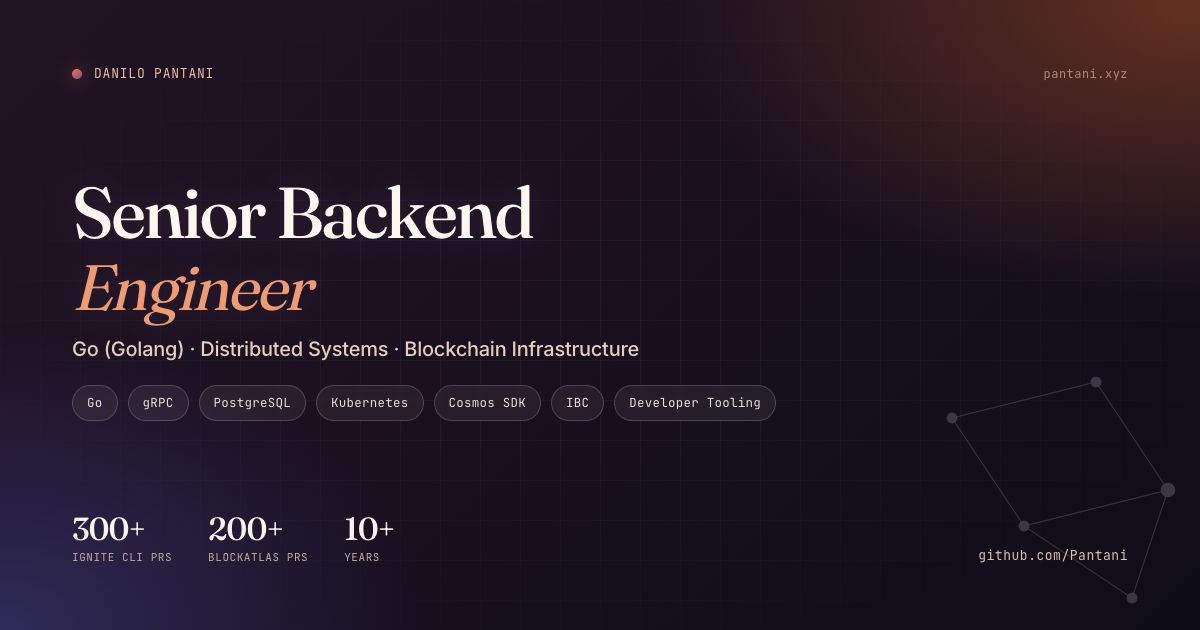
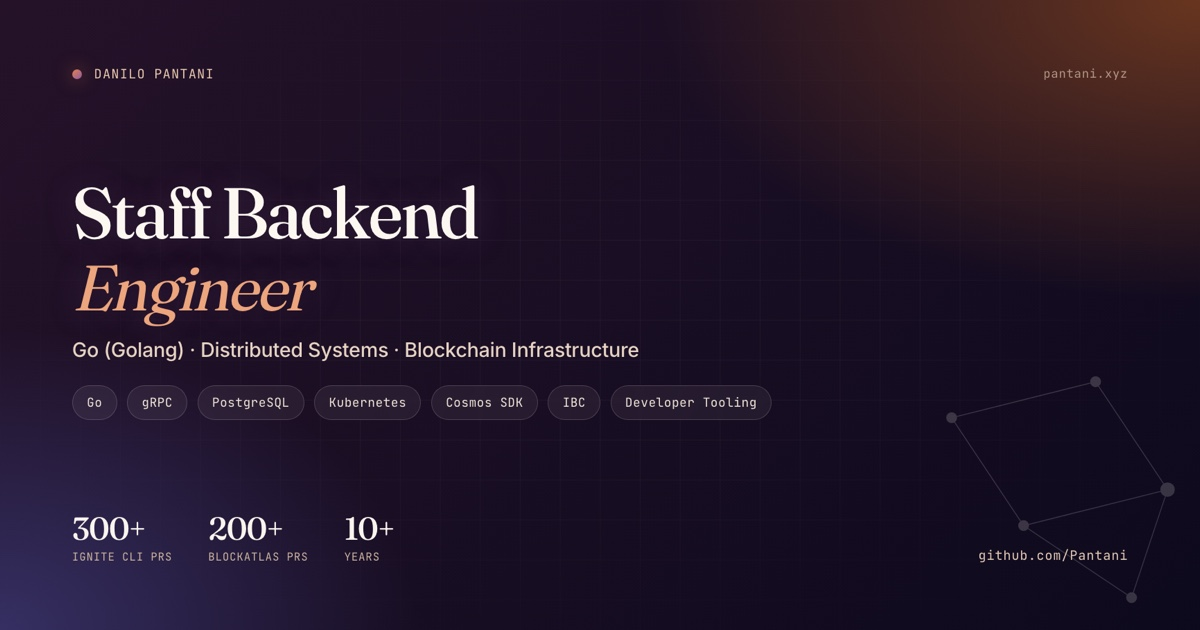
Replace remaining Senior target-role references with Staff
Swap the case-study social card (still showing Senior) for the Staff card,
cache-bust its URL, drop 'or Senior' from the target roles in EN/PT site
copy and README, and regenerate the CV PDFs. The Ignite Senior-to-Staff
history stays as is.

diff --git a/index.html b/index.html
@@ -76,7 +76,7 @@
     ],
     "seeks": {
       "@type": "Demand",
-      "name": "Remote Staff or Senior Backend Engineer, Go/Golang Engineer, Blockchain Engineer or Protocol Engineer roles using Go, distributed systems and blockchain infrastructure. Based in Brazil, UTC-3. Open to relocation."
+      "name": "Remote Staff Backend Engineer, Go/Golang Engineer, Blockchain Engineer or Protocol Engineer roles using Go, distributed systems and blockchain infrastructure. Based in Brazil, UTC-3. Open to relocation."
     },
     "performerIn": [
       {
@@ -2767,7 +2767,7 @@
   <main id="main" class="resume" aria-label="Danilo Pantani CV">
     <header class="hero">
       <div>
-        <p class="eyebrow"><span class="pulse" aria-hidden="true"></span><span data-i18n="hero.eyebrow">Open to remote Staff and Senior Backend Engineer roles · São Paulo · UTC−3</span></p>
+        <p class="eyebrow"><span class="pulse" aria-hidden="true"></span><span data-i18n="hero.eyebrow">Open to remote Staff Backend Engineer roles · São Paulo · UTC−3</span></p>
         <p class="person-name">Danilo <span class="name-accent">Pantani</span></p>
         <h1 data-i18n-html="hero.title"><span class="name-accent">Staff Backend Engineer</span></h1>
         <p class="title technical-line" data-i18n="hero.technical">Go (Golang) · Distributed Systems · Blockchain Infrastructure</p>
@@ -3209,7 +3209,7 @@
               <h2 id="print-seeking-title" data-i18n="seeking.title">What I'm looking for</h2>
             </div>
             <ul class="impact-list">
-              <li data-i18n-html="seeking.b1">Remote <strong>Staff or Senior Backend Engineer</strong>, <strong>Go/Golang Engineer</strong>, <strong>Blockchain Engineer</strong> or <strong>Protocol Engineer</strong> roles focused on Go, distributed systems and blockchain infrastructure.</li>
+              <li data-i18n-html="seeking.b1">Remote <strong>Staff Backend Engineer</strong>, <strong>Go/Golang Engineer</strong>, <strong>Blockchain Engineer</strong> or <strong>Protocol Engineer</strong> roles focused on Go, distributed systems and blockchain infrastructure.</li>
               <li data-i18n-html="seeking.b2">Responsibility for services from <strong>architecture and APIs to deployment and production support</strong>.</li>
               <li data-i18n-html="seeking.b3">Based in São Paulo, UTC−3. Brazilian and Italian (EU) citizen. Available to start immediately and open to relocation.</li>
             </ul>
@@ -3444,7 +3444,7 @@
         "toolbar.copied": "Copied ✓",
         "toolbar.share": "Share preview",
         "toolbar.shareTitle": "Toggle social share preview",
-        "hero.eyebrow": "Open to remote Staff and Senior Backend Engineer roles · São Paulo · UTC−3",
+        "hero.eyebrow": "Open to remote Staff Backend Engineer roles · São Paulo · UTC−3",
         "hero.title": "<span class=\"name-accent\">Staff Backend Engineer</span>",
         "hero.technical": "Go (Golang) · Distributed Systems · Blockchain Infrastructure",
         "hero.pitch": "Staff backend engineer with 10+ years in software engineering, focused on Go services, distributed systems and blockchain infrastructure.",
@@ -3550,7 +3550,7 @@
         "projects.title": "Selected Repositories / Evidence",
         "projects.intro": "Public repositories that support the protocol, backend, interoperability, and developer-tooling work above.",
         "seeking.title": "What I'm looking for",
-        "seeking.b1": "Remote <strong>Staff or Senior Backend Engineer</strong>, <strong>Go/Golang Engineer</strong>, <strong>Blockchain Engineer</strong> or <strong>Protocol Engineer</strong> roles focused on Go, distributed systems and blockchain infrastructure.",
+        "seeking.b1": "Remote <strong>Staff Backend Engineer</strong>, <strong>Go/Golang Engineer</strong>, <strong>Blockchain Engineer</strong> or <strong>Protocol Engineer</strong> roles focused on Go, distributed systems and blockchain infrastructure.",
         "seeking.b2": "Responsibility for services from <strong>architecture and APIs to deployment and production support</strong>.",
         "seeking.b3": "Based in São Paulo, UTC−3. Brazilian and Italian (EU) citizen. Available to start immediately and open to relocation.",
         "summary.title": "Professional Summary",
@@ -3628,7 +3628,7 @@
         "toolbar.copied": "Copiado ✓",
         "toolbar.share": "Pré-visualização",
         "toolbar.shareTitle": "Alternar pré-visualização social",
-        "hero.eyebrow": "Disponível para vagas remotas de Engenheiro Backend Staff e Sênior · São Paulo · UTC−3",
+        "hero.eyebrow": "Disponível para vagas remotas de Engenheiro Backend Staff · São Paulo · UTC−3",
         "hero.title": "<span class=\"name-accent\">Engenheiro Backend Staff</span>",
         "hero.technical": "Go (Golang) · Sistemas Distribuídos · Infraestrutura Blockchain",
         "hero.pitch": "Engenheiro backend staff com mais de dez anos em engenharia de software, focado em serviços Go, sistemas distribuídos e infraestrutura blockchain.",
@@ -3734,7 +3734,7 @@
         "projects.title": "Repositórios Selecionados / Evidências",
         "projects.intro": "Repositórios públicos que sustentam os trabalhos de protocolo, backend, interoperabilidade e ferramentas para desenvolvedores descritos acima.",
         "seeking.title": "O que estou buscando",
-        "seeking.b1": "Vagas remotas de <strong>Engenheiro Backend Staff ou Sênior</strong>, <strong>Engenheiro Go/Golang</strong>, <strong>Engenheiro Blockchain</strong> ou <strong>Engenheiro de Protocolo</strong> com foco em Go, sistemas distribuídos e infraestrutura blockchain.",
+        "seeking.b1": "Vagas remotas de <strong>Engenheiro Backend Staff</strong>, <strong>Engenheiro Go/Golang</strong>, <strong>Engenheiro Blockchain</strong> ou <strong>Engenheiro de Protocolo</strong> com foco em Go, sistemas distribuídos e infraestrutura blockchain.",
         "seeking.b2": "Responsabilidade por serviços, da <strong>arquitetura e APIs ao deploy e suporte em produção</strong>.",
         "seeking.b3": "Baseado em São Paulo, UTC−3. Cidadão brasileiro e italiano (UE). Disponível para começar imediatamente e aberto a realocação.",
         "summary.title": "Resumo Profissional",

diff --git a/scripts/site_metadata.py b/scripts/site_metadata.py
@@ -6,7 +6,7 @@ from bs4 import BeautifulSoup
 
 DOMAIN = "https://pantani.xyz"
 MODIFIED = "2026-11-09"
-IMAGE = f"{DOMAIN}/assets/social-card.jpg"
+IMAGE = f"{DOMAIN}/assets/social-card.jpg?v=20261111"
 LANGUAGES = {"en": "en", "pt": "pt-BR"}
 LABELS = {
     "en": {

diff --git a/README.md b/README.md
@@ -19,7 +19,7 @@ The **With references / Com referências** toolbar link opens a shareable view o
 
 Staff backend engineer with 10+ years in software engineering, focused on Go backend services, distributed systems, and blockchain infrastructure. Experience includes leading backend work on Trust Wallet's multi-chain blockatlas, building Cosmos developer tooling at Ignite, and implementing AtomOne distribution-module changes.
 
-Seeking remote Staff or Senior Backend Engineer, Go/Golang Engineer, Blockchain Engineer or Protocol Engineer roles focused on Go, distributed systems and blockchain infrastructure.
+Seeking remote Staff Backend Engineer, Go/Golang Engineer, Blockchain Engineer or Protocol Engineer roles focused on Go, distributed systems and blockchain infrastructure.
 
 ## Selected engineering contributions
 
